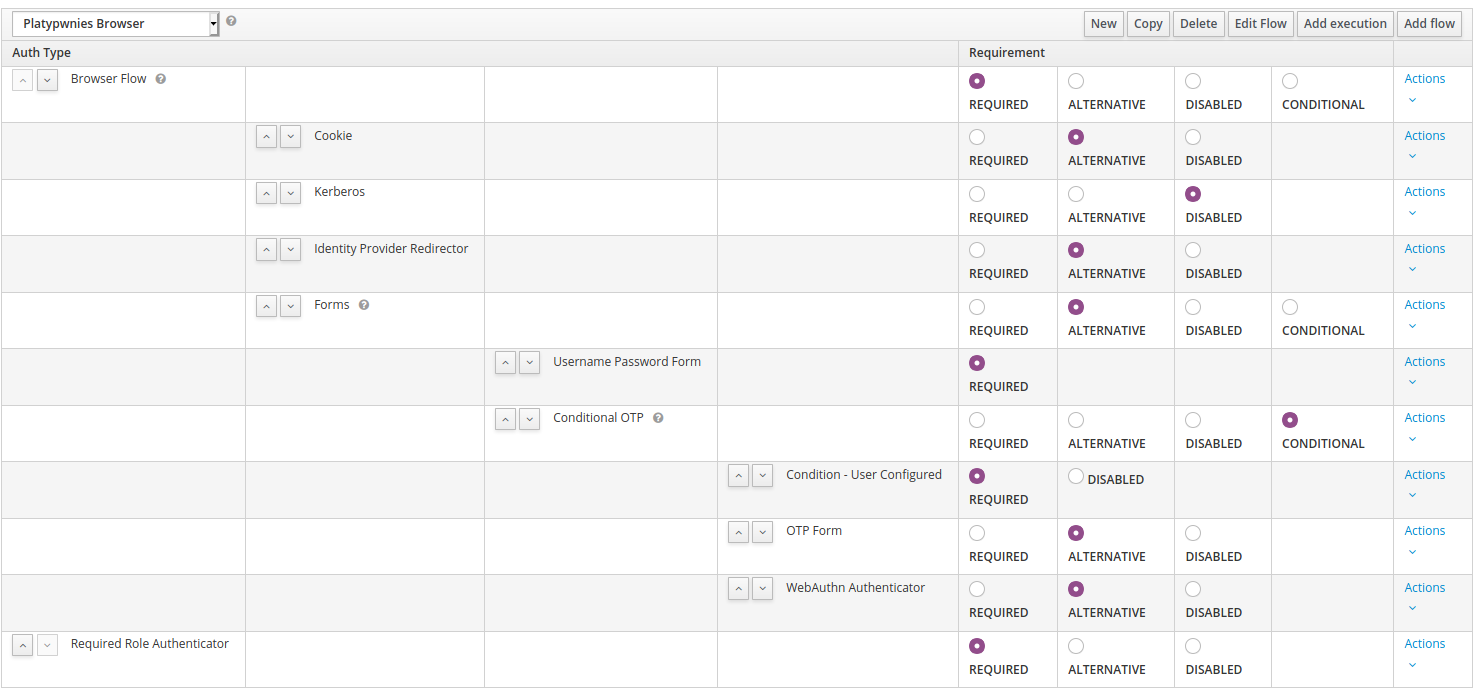
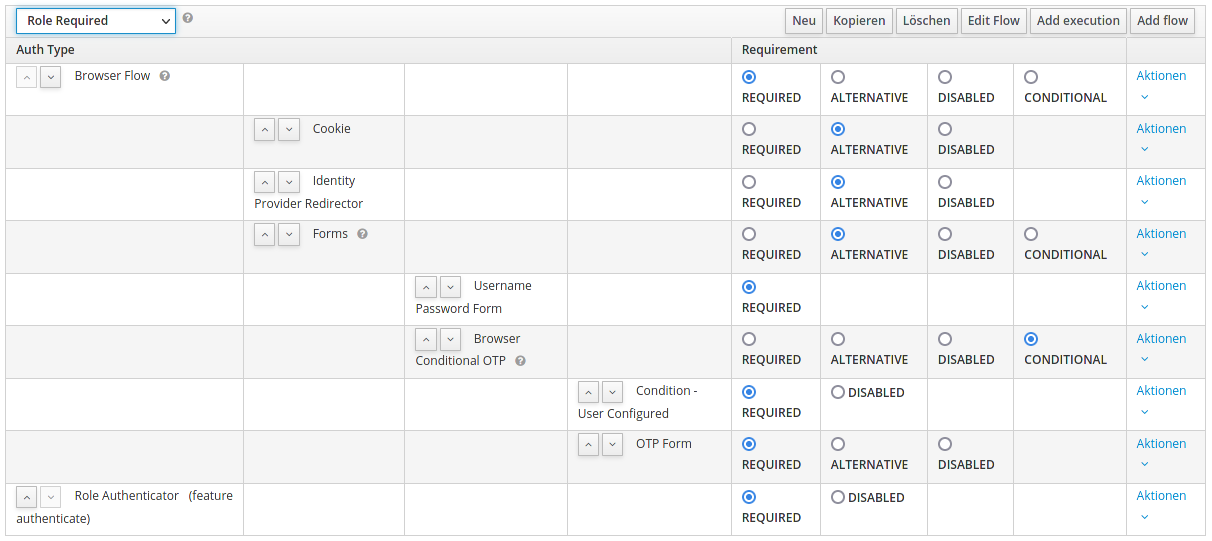
Adjust README to new functionality

diff --git a/Readme.md b/Readme.md
@@ -5,7 +5,7 @@
 This simple module allows authenticating for a Keycloak role before handing over the authentication flow back to a client. For example, you can allow access to an application only for a single role. 
 It is inspired by [`auth-require-role-authenticator`](https://github.com/thomasdarimont/keycloak-extension-playground/tree/master/auth-require-role-extension).
 
-In contrast to the built-in `User Role Authenticator` this authenticator does not require you to create an own flow for every client which might have a different user set. This module allows you to add one role per client and assign users to those specific roles while having only central authentication flows. Additionally, with this module you can set a specific error message per client to let your users know, why they are not able to login.
+In contrast to the built-in `User Role Authenticator` this authenticator does not require you to create an own flow for every client which might have a different user set. This module allows you to add one role per client and assign users to those specific roles while having only central authentication flows. Additionally, with this module you can set a specific error message per client to let your users know why they are not able to login.
 
 ## Installation
 
@@ -39,8 +39,14 @@ If you are using external identity providers, it is very important to check the 
 
 ## Usage
 
-To require a role when authenticating for a client, you need to add the role `feature:authenticate` to a client. Only if this role exists, this modules will take action.
+Before you can use the authenticator, you need to configure it. On the Keycloak authentication flow page, click on `Actions` and `Configure`. By default, the required role is `feature:authenticate`.
+
+![role required configuration](docs/configuration.png)
+
+Then if this role exists on a client, this module will take action. If the role does not exist, the module will just succeed.
 
 For all users, which should get access to such client, you need to assign them the role.
 
-You can set a unique access denied message to the role `feature:authenticate` by adding an attribute `deniedMessage` to it, which will be shown when a user is missing this specific role to use the client.
+You can set a unique access denied message to the role `feature:authenticate` by adding an attribute `deniedMessage` to it, which will be shown when a user is missing this specific role to use the client. The following screen is presented to the user:
+
+![failed authentication](docs/failed-login.png)
